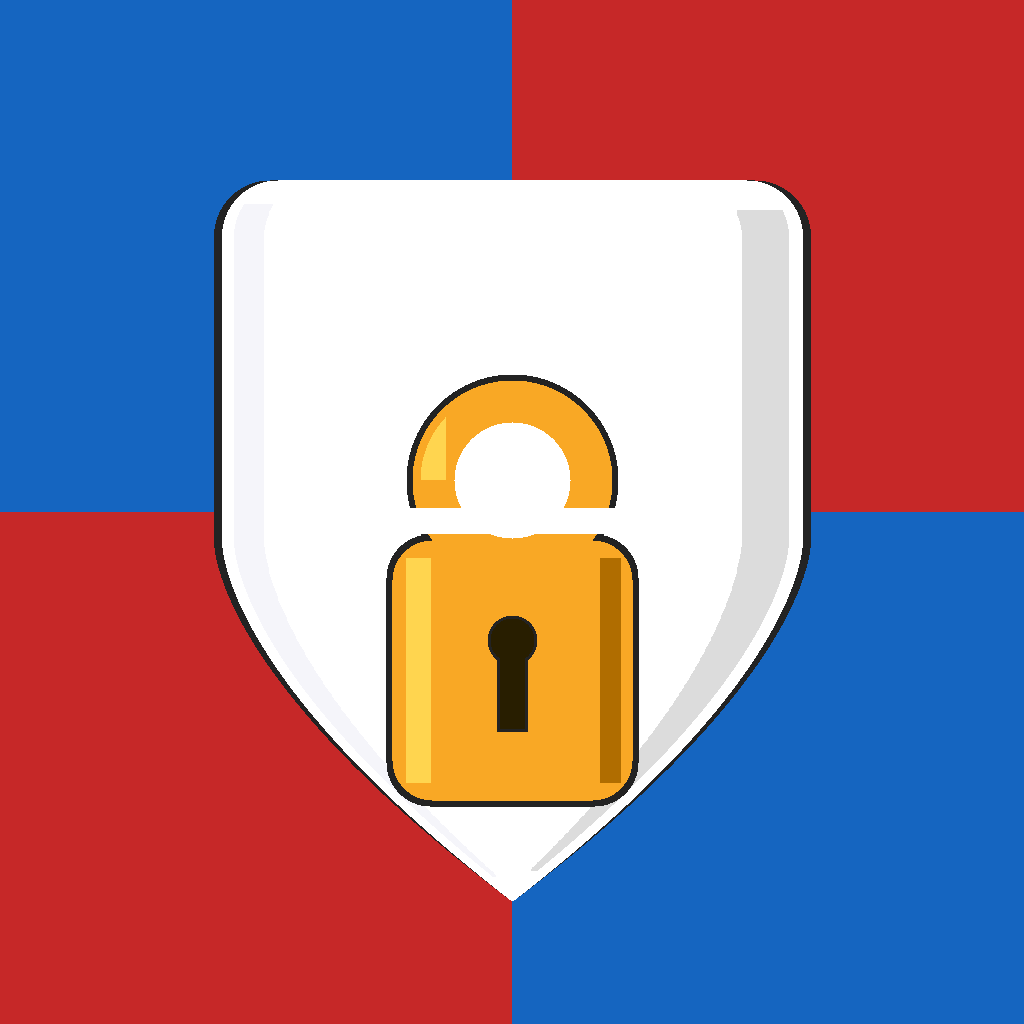
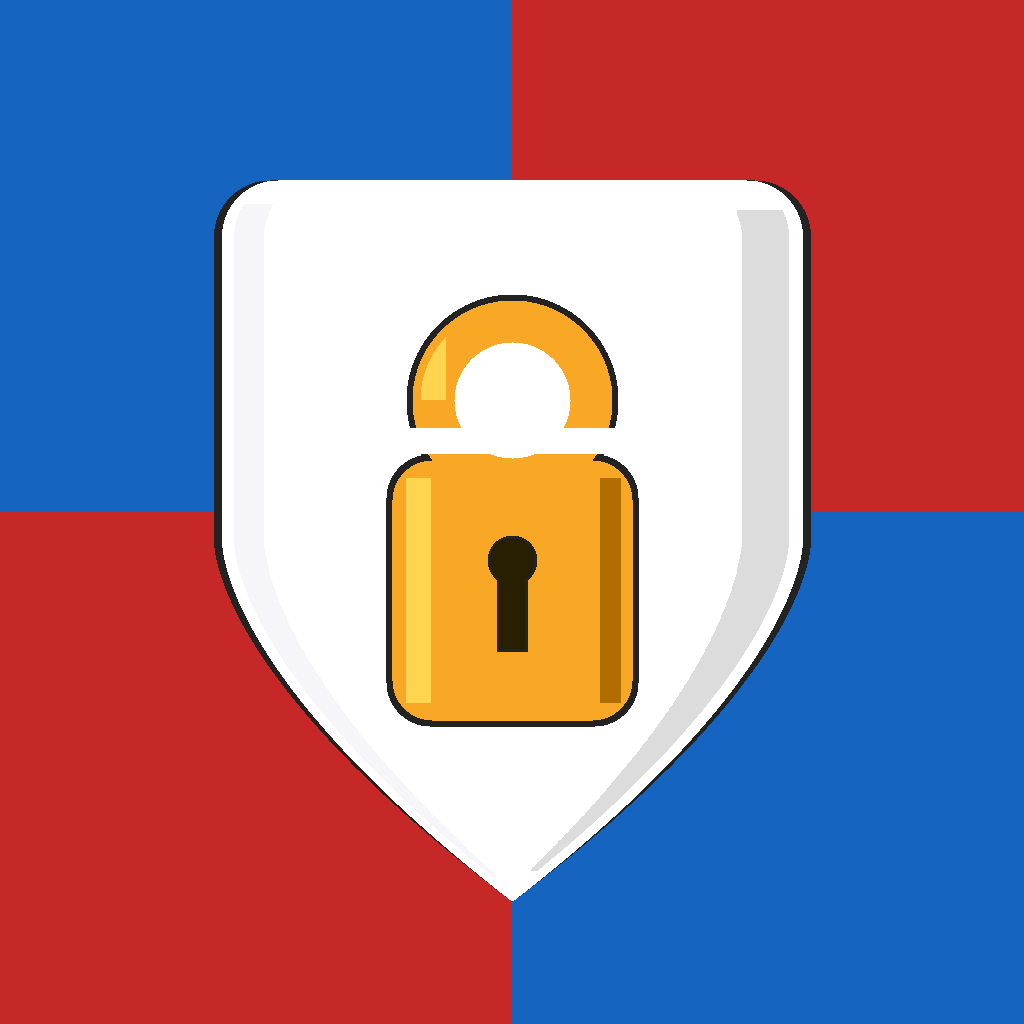
fix: cadenas centré verticalement dans l'icône (v1.8.1)
Le cadenas était trop bas dans le bouclier. Décalage de 80px vers le haut :
- shackle cy : 480 → 400
- body : y1=540→460, y2=800→720
- keyhole : 640→560, stem 728→648

Bouclier ayant son poids visuel dans la moitié supérieure (à cause de la
pointe en bas), positionner le cadenas légèrement au-dessus du centre
géométrique donne un meilleur équilibre visuel.

Changed region(s): [[0.375, 0.2812, 0.625, 0.8125]]

diff --git a/tool/generate_icon.dart b/tool/generate_icon.dart
@@ -34,16 +34,18 @@ const _shHalfW    = 290;
 const _shStraight = 540;
 const _shTopRad   = 56;
 
-// Lock geometry (à l'intérieur du bouclier)
+// Lock geometry (centré visuellement dans le bouclier — partie haute, le
+// bouclier ayant son "poids visuel" dans la moitié supérieure à cause du
+// pointu en bas).
 const _lockBodyX1 = 392, _lockBodyX2 = 632;
-const _lockBodyY1 = 540, _lockBodyY2 = 800;
+const _lockBodyY1 = 460, _lockBodyY2 = 720;
 const _lockBodyRadius = 40;
-const _shackleCx = 512, _shackleCy = 480;
+const _shackleCx = 512, _shackleCy = 400;
 const _shackleOuter = 100;
 const _shackleInner = 58;
-const _khCx = 512, _khCy = 640;
+const _khCx = 512, _khCy = 560;
 const _khRadius = 22;
-const _khStemX1 = 500, _khStemX2 = 524, _khStemY2 = 728;
+const _khStemX1 = 500, _khStemX2 = 524, _khStemY2 = 648;
 
 img.Color _quadrantAt(int x, int y) {
   final isBlue = (x < _half) == (y < _half);

diff --git a/lib/services/update_service.dart b/lib/services/update_service.dart
@@ -15,7 +15,7 @@ class UpdateInfo {
 
 class UpdateService {
   static const _repo    = 'gitubpatrice/pass_tech';
-  static const _current = '1.8.0';
+  static const _current = '1.8.1';
   static const _checkKey = 'last_update_check';
 
   Future<UpdateInfo?> checkForUpdate({bool force = false}) async {

diff --git a/lib/screens/about_screen.dart b/lib/screens/about_screen.dart
@@ -9,7 +9,7 @@ class AboutScreen extends StatefulWidget {
 }
 
 class _AboutScreenState extends State<AboutScreen> {
-  static const _version = '1.8.0';
+  static const _version = '1.8.1';
   static const _author  = 'Patrice Haltaya';
 
   bool _checkingUpdate = false;
